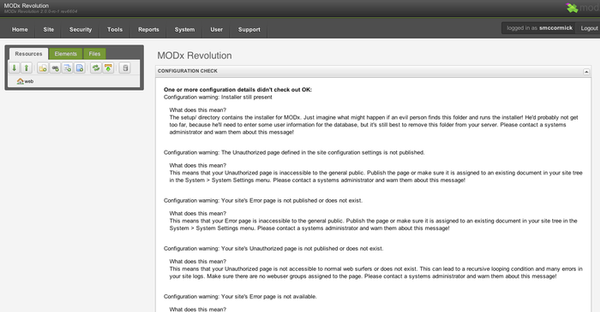
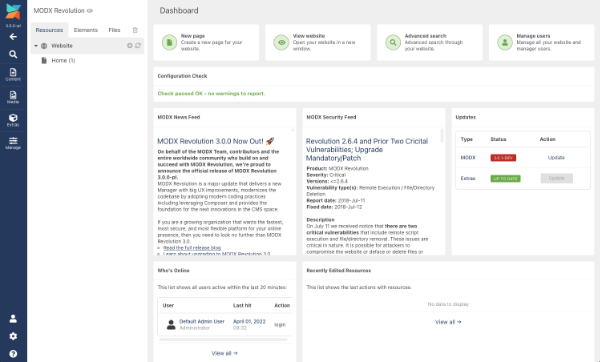
3.x new screenshot and reference (#398)
* Update first login screenshots

* Refer to MODX 3.x

diff --git a/en/getting-started/installation.md b/en/getting-started/installation.md
@@ -11,7 +11,7 @@ Before installing please ensure the server meets the [Server Requirements](getti
 
 ## Downloading MODX
 
-MODX Revolution 2.x can be downloaded either directly from [the MODX site](https://modx.com/download) or via [Git](http://github.com/modxcms).
+MODX Revolution 3.x can be downloaded either directly from [the MODX site](https://modx.com/download) or via [Git](http://github.com/modxcms).
 
 ### From the MODX Site
 
